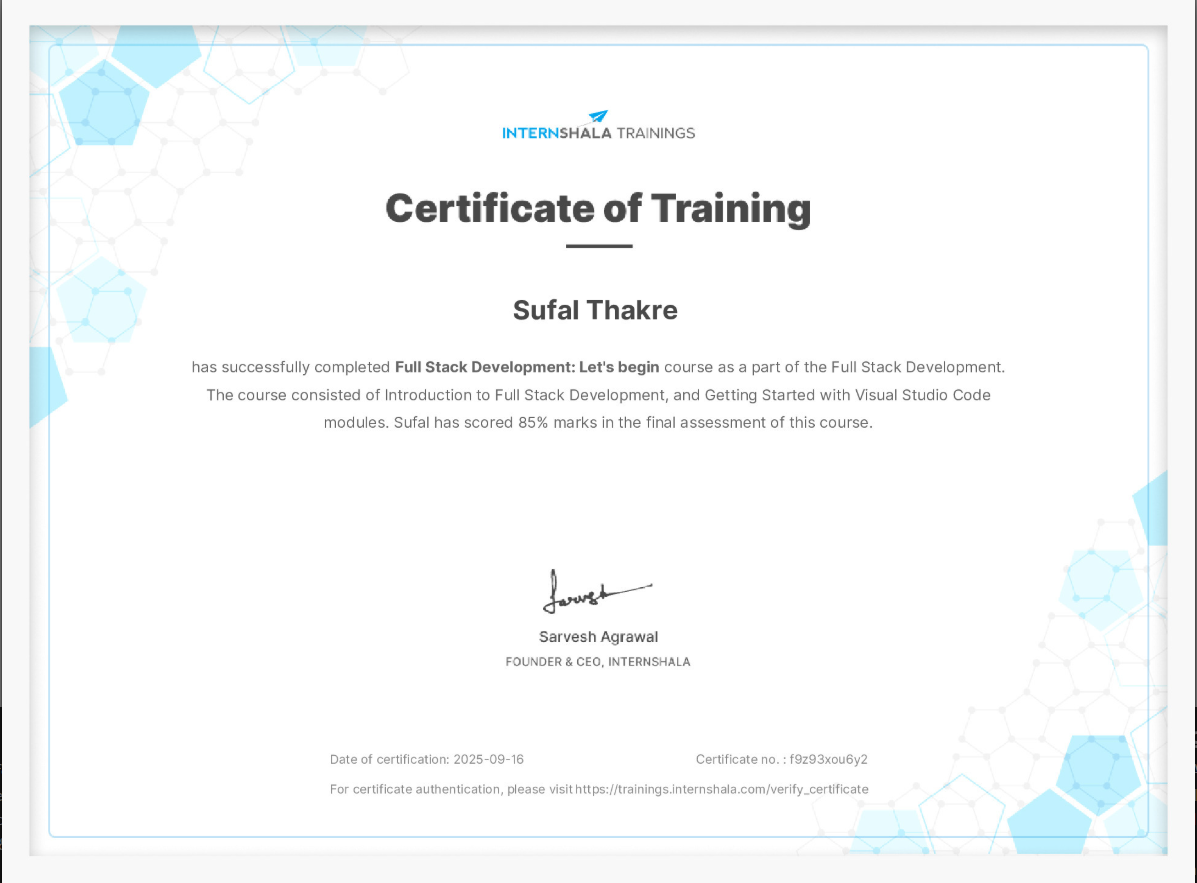
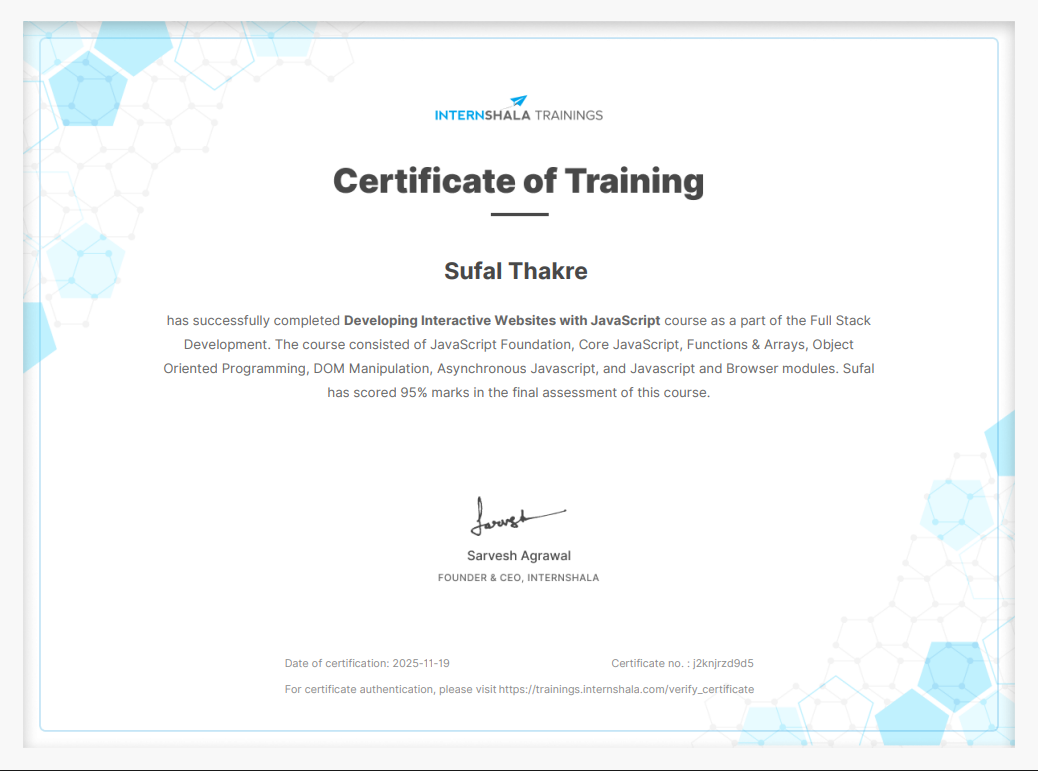
add cerificate of internshala

diff --git a/index.html b/index.html
@@ -33,7 +33,7 @@
                             class="text-gray-800 hover:text-red-800 transition duration-300 font-medium">Skills</a>
                     </li>
                     <li><a href="#projects"
-                            class="text-gray-800 hover:text-red-800 transition duration-300 font-medium">Services</a>
+                            class="text-gray-800 hover:text-red-800 transition duration-300 font-medium">Projects</a>
                     </li>
                     <li><a href="#contact"
                             class="text-gray-800 hover:text-red-800 transition duration-300 font-medium">Contact</a>
@@ -249,12 +249,12 @@
                                     </div>
                                 </div>
                             </div>
-                            <div class="text-sm font-medium text-red-800 skill-percentage">75%</div>
+                            <div class="text-sm font-medium text-red-800 skill-percentage">85%</div>
                         </div>
 
                         <div class="skill-bar bg-gray-200 rounded-full h-2.5 overflow-hidden">
                             <div
-                                class="skill-fill h-full bg-red-700 rounded-full w-[75%] origin-left transform lg:scale-x-0 transition-transform duration-1000 scale-x-100 lg:group-hover:scale-x-100">
+                                class="skill-fill h-full bg-red-700 rounded-full w-[85%] origin-left transform lg:scale-x-0 transition-transform duration-1000 scale-x-100 lg:group-hover:scale-x-100">
                             </div>
                         </div>
 
@@ -419,11 +419,13 @@
                         </div>
 
                         <div class="mt-4 flex flex-wrap gap-2">
-                            <span class="text-xs px-2 py-1 bg-gray-200 rounded-full text-gray-600 skill-tag">Responsive & Media queries
+                            <span class="text-xs px-2 py-1 bg-gray-200 rounded-full text-gray-600 skill-tag">Responsive
+                                & Media queries
                                 Design</span>
                             <span class="text-xs px-2 py-1 bg-gray-200 rounded-full text-gray-600 skill-tag">Layouts
                                 Layouts</span>
-                            <span class="text-xs px-2 py-1 bg-gray-200 rounded-full text-gray-600 skill-tag">Structure & Styling
+                            <span class="text-xs px-2 py-1 bg-gray-200 rounded-full text-gray-600 skill-tag">Structure &
+                                Styling
                                 Ecosystem</span>
                         </div>
                     </div>
@@ -546,8 +548,7 @@
                                     alt="internshala Logo" class="w-10 h-10 flex-shrink-0 rounded-xl" />
                                 <div>
                                     <h3 class="text-2xl font-bold font-poppins text-gray-800 cert-title-color">
-                                        Full Stack Development:
-                                        Let's Begin
+                                        Developing Interactive Websites with JavaScript
                                     </h3>
                                     <p class="text-sm text-gray-500 cert-subtitle-color">
                                         **Internshala**| 2025
@@ -564,11 +565,12 @@
 
                         <p
                             class="text-base text-gray-700 leading-relaxed cert-details-color mb-6 border-t pt-4 border-gray-200">
-                            I have successfully completed Full Stack Development: Let's begin course from Internshala
-                            Trainings. Check out my certificate here! Internshala Trainings.
-                        </p>
+                            I have successfully completed the <strong>Developing Interactive Websites with
+                                JavaScript</strong> course from Internshala Trainings.
+                            This training helped me strengthen my understanding of DOM manipulation, events, and
+                            building interactive UI components.</p>
 
-                        <a href="https://trainings.internshala.com/s/v/3781302/88ced7ff" target="_blank"
+                        <a href="https://trainings.internshala.com/s/v/3812788/9924f5f6" target="_blank"
                             rel="noopener noreferrer"
                             class="cert-btn relative overflow-hidden inline-flex items-center justify-center px-8 py-3 text-sm font-semibold rounded-full bg-red-700 text-white transition-all duration-500 transform hover:bg-red-900 hover:scale-[1.03] shadow-md">
 
@@ -631,7 +633,7 @@
                                     alt="Internshala Logo" class="w-10 h-10 flex-shrink-0 rounded-xl" />
                                 <div>
                                     <h3 class="text-2xl font-bold font-poppins text-gray-800 cert-title-color">
-                                       Git and GitHub: Mastering Version Control
+                                        Git and GitHub: Mastering Version Control
                                     </h3>
                                     <p class="text-sm text-gray-500 cert-subtitle-color">
                                         Issued by **Internshala** | 2025
@@ -649,8 +651,8 @@
                             developing hands-on skills in branching, merging, pull requests, and collaborative
                             workflows.</p>
 
-                        <a href="https://trainings.internshala.com/view_certificate/5l215xvex3b/3p4rrmzmoua/" target="_blank"
-                            rel="noopener noreferrer"
+                        <a href="https://trainings.internshala.com/view_certificate/5l215xvex3b/3p4rrmzmoua/"
+                            target="_blank" rel="noopener noreferrer"
                             class="cert-btn relative overflow-hidden inline-flex items-center justify-center px-8 py-3 text-sm font-semibold rounded-full bg-red-700 text-white transition-all duration-500 transform hover:bg-red-900 hover:scale-[1.03] shadow-md">
 
                             <span class="relative z-10 inline-flex items-center">
@@ -659,49 +661,7 @@
                             </span>
                         </a>
                     </div>
-                    <!--4th Cert-->
-                    <div
-                        class="cert-block bg-white p-8 rounded-xl shadow-2xl transition-all duration-500 hover:shadow-red-300/50 group border-l-8 border-b-8 border-red-800">
-                        <div class="flex flex-col md:flex-row justify-between items-start md:items-center mb-4">
-
-                            <div class="flex items-center space-x-4 mb-4 md:mb-0">
-                                <img src="src/assets/courseersIcon.png" alt="Coursera Logo"
-                                    class="w-10 h-10 flex-shrink-0 rounded-xl" />
-                                <div>
-                                    <h3 class="text-2xl font-bold font-poppins text-gray-800 cert-title-color">
-                                        Google Ads for Beginners
-                                    </h3>
-                                    <p class="text-sm text-gray-500 cert-subtitle-color">
-                                        Issued by **Coursera** | 2025
-                                    </p>
-                                </div>
-                            </div>
-
-                            <div class="w-24 h-16 overflow-hidden rounded-lg shadow-lg flex-shrink-0">
-                                <img src="src/assets/CourseraCert.png" alt="Certificate Thumbnail"
-                                    class="w-full h-full object-cover">
-                            </div>
-                        </div>
-
-                        <p
-                            class="text-base text-gray-700 leading-relaxed cert-details-color mb-6 border-t pt-4 border-gray-200">
-                            Completed Google Ads for Beginners (Coursera) with 100% grade. Learned campaign setup,
-                            keyword research, audience targeting, and ad optimization. Gained skills in PPC, ROI, and
-                            digital marketing.
-
-                        </p>
-                        <!-- rel="noopener noreferrer" is used  for security and performance-->
-                        <a href="https://coursera.org/share/5f9df123de991b9bf488e761cebe72c7" target="_blank"
-                            rel="noopener noreferrer"
-                            class="cert-btn relative overflow-hidden inline-flex items-center justify-center px-8 py-3 text-sm font-semibold rounded-full bg-red-700 text-white transition-all duration-500 transform hover:bg-red-900 hover:scale-[1.03] shadow-md">
-
-                            <span class="relative z-10 inline-flex items-center">
-                                <i class="fas fa-external-link-alt mr-2"></i>
-                                View Credential
-                            </span>
-                        </a>
-                    </div>
-                    <!--5th cert-->
+                    <!--4th cert-->
                     <div
                         class="cert-block bg-white p-8 rounded-xl shadow-2xl transition-all duration-500 hover:shadow-red-300/50 group border-l-8 border-b-8 border-red-800">
                         <div class="flex flex-col md:flex-row justify-between items-start md:items-center mb-4">
@@ -764,53 +724,146 @@
                 <div class="grid grid-cols-1 md:grid-cols-2 lg:grid-cols-3 gap-8 relative">
 
                     <!-- Project Card 1 -->
+
                     <div
                         class="project-card bg-white rounded-3xl overflow-hidden shadow-xl transition-all duration-500 hover:shadow-2xl group">
-                        <div
-                            class="relative w-full h-64 overflow-hidden bg-gradient-to-br from-purple-500 to-purple-700">
-                            <img src="https://images.unsplash.com/photo-1460925895917-afdab827c52f?w=800&h=600&fit=crop"
-                                alt="E-Commerce Platform"
+                        <div class="relative w-full h-64 overflow-hidden ">
+                            <img src="https://images.unsplash.com/photo-1551650975-87deedd944c3?w=800&h=600&fit=crop"
+                                alt="Portfolio Website"
                                 class="w-full h-full object-cover transition-transform duration-700 group-hover:scale-110 group-hover:rotate-2">
 
-                            <!-- Overlay -->
                             <div
-                                class="absolute inset-0 bg-gradient-to-br  to-slate-600  transition-opacity duration-500 flex items-center justify-center">
+                                class="absolute inset-0 bg-gradient-to-br to-slate-600  transition-colors duration-500 flex items-center justify-center">
                                 <div
                                     class="flex gap-5 transform translate-y-5 group-hover:translate-y-0 transition-transform duration-500">
-                                    <a href="https://github.com/Sufalthakre18/E-commerce.git" target="_blank"
+                                    <a href="https://my-portfolio-pearl-xi-96.vercel.app/" target="_blank"
                                         class="w-12 h-12 bg-white rounded-full flex items-center justify-center text-red-700 text-xl transition-all duration-300 hover:scale-125 hover:rotate-[360deg]">
                                         <i class="fas fa-external-link-alt"></i>
                                     </a>
-                                    <a href="https://github.com/Sufalthakre18/E-commerce.git" target="_blank"
+                                    <a href="https://github.com/Sufalthakre18/My-portfolio" target="_blank"
                                         class="w-12 h-12 bg-white rounded-full flex items-center justify-center text-red-700 text-xl transition-all duration-300 hover:scale-125 hover:rotate-[360deg]">
                                         <i class="fab fa-github"></i>
                                     </a>
                                 </div>
                             </div>
-
                             <!-- Badge -->
                             <div
                                 class="project-badge absolute top-4 right-4 bg-slate-800 text-white px-4 py-1.5 rounded-full text-xs font-semibold uppercase tracking-wider">
-                                Running
+                                Live
                             </div>
                         </div>
 
                         <div class="p-6">
                             <h3
                                 class="text-2xl font-bold text-gray-800 mb-3 transition-colors duration-300 group-hover:text-red-700">
-                                E-Commerce Platform
+                                My Portfolio Website
                             </h3>
                             <p class="text-sm text-gray-600 mb-4 line-clamp-3 leading-relaxed">
-                                Full-stack marketplace with real-time inventory, payment integration, and admin
-                                dashboard. **PERN stack**
+                                Stunning portfolio website with parallax effects and smooth animations using tailwind
+                                css and JavaScript.
                             </p>
                             <div class="flex flex-wrap gap-2">
                                 <span
-                                    class="project-tag px-3 py-1.5  text-red-900 rounded-full text-xs font-medium transition-all duration-300">Next.js</span>
+                                    class="project-tag px-3 py-1.5  text-red-900 rounded-full text-xs font-medium transition-all duration-300">HTML5</span>
                                 <span
-                                    class="project-tag px-3 py-1.5  text-red-900 rounded-full text-xs font-medium transition-all duration-300">Node.js</span>
+                                    class="project-tag px-3 py-1.5  text-red-900 rounded-full text-xs font-medium transition-all duration-300">Animation</span>
                                 <span
-                                    class="project-tag px-3 py-1.5  text-red-900 rounded-full text-xs font-medium transition-all duration-300">PostgreSQL</span>
+                                    class="project-tag px-3 py-1.5  text-red-900 rounded-full text-xs font-medium transition-all duration-300">TailwindCss</span>
+                            </div>
+                        </div>
+                    </div>
+
+                    <!--Project Card 1.1-->
+                    <div
+                        class="project-card bg-white rounded-3xl overflow-hidden shadow-xl transition-all duration-500 hover:shadow-2xl group">
+                        <div class="relative w-full h-64 overflow-hidden ">
+                            <img src="./src/assets/studentRegistration.gif"
+                                alt="Student Registration System Project Preview"
+                                class="w-full h-full object-cover transition-transform duration-700 group-hover:scale-110 group-hover:rotate-2">
+
+                            <div
+                                class="absolute inset-0 bg-gradient-to-br to-slate-600  transition-colors duration-500 flex items-center justify-center">
+                                <div
+                                    class="flex gap-5 transform translate-y-5 group-hover:translate-y-0 transition-transform duration-500">
+                                    <a href="https://student-registration-system-one-sandy.vercel.app/" target="_blank"
+                                        class="w-12 h-12 bg-white rounded-full flex items-center justify-center text-red-700 text-xl transition-all duration-300 hover:scale-125 hover:rotate-[360deg]">
+                                        <i class="fas fa-external-link-alt"></i>
+                                    </a>
+                                    <a href="https://github.com/Sufalthakre18/Student-Registration-System" target="_blank"
+                                        class="w-12 h-12 bg-white rounded-full flex items-center justify-center text-red-700 text-xl transition-all duration-300 hover:scale-125 hover:rotate-[360deg]">
+                                        <i class="fab fa-github"></i>
+                                    </a>
+                                </div>
+                            </div>
+                            <!-- Badge -->
+                            <div
+                                class="project-badge absolute top-4 right-4 bg-slate-800 text-white px-4 py-1.5 rounded-full text-xs font-semibold uppercase tracking-wider">
+                                Live
+                            </div>
+                        </div>
+
+                        <div class="p-6">
+                            <h3
+                                class="text-2xl font-bold text-gray-800 mb-3 transition-colors duration-300 group-hover:text-red-700">
+                                  Student Registration System
+                            </h3>
+                            <p class="text-sm text-gray-600 mb-4 line-clamp-3 leading-relaxed">
+                                 A responsive Student Registration System with full CRUD, smart validation, duplicate ID checks, and persistent data using localStorage.
+                            </p>
+                            <div class="flex flex-wrap gap-2">
+                                <span
+                                    class="project-tag px-3 py-1.5  text-red-900 rounded-full text-xs font-medium transition-all duration-300">JavaScript</span>
+                                <span
+                                    class="project-tag px-3 py-1.5  text-red-900 rounded-full text-xs font-medium transition-all duration-300">CRUD</span>
+                                <span
+                                    class="project-tag px-3 py-1.5  text-red-900 rounded-full text-xs font-medium transition-all duration-300">TailwindCss</span>
+                            </div>
+                        </div>
+                    </div>
+
+                    <!--Project Card 1.2-->
+                    <div
+                        class="project-card bg-white rounded-3xl overflow-hidden shadow-xl transition-all duration-500 hover:shadow-2xl group">
+                        <div class="relative w-full h-64 overflow-hidden ">
+                            <img src="./src/assets/weatherforecast.gif"
+                                alt="Weather Forecast Application"
+                                class="w-full h-full object-cover transition-transform duration-700 group-hover:scale-110 group-hover:rotate-2">
+
+                            <div
+                                class="absolute inset-0 bg-gradient-to-br to-slate-600  transition-colors duration-500 flex items-center justify-center">
+                                <div
+                                    class="flex gap-5 transform translate-y-5 group-hover:translate-y-0 transition-transform duration-500">
+                                    <a href="https://weather-forecast-application-lyart.vercel.app/" target="_blank"
+                                        class="w-12 h-12 bg-white rounded-full flex items-center justify-center text-red-700 text-xl transition-all duration-300 hover:scale-125 hover:rotate-[360deg]">
+                                        <i class="fas fa-external-link-alt"></i>
+                                    </a>
+                                    <a href="https://github.com/Sufalthakre18/weather-forecast-application" target="_blank"
+                                        class="w-12 h-12 bg-white rounded-full flex items-center justify-center text-red-700 text-xl transition-all duration-300 hover:scale-125 hover:rotate-[360deg]">
+                                        <i class="fab fa-github"></i>
+                                    </a>
+                                </div>
+                            </div>
+                            <!-- Badge -->
+                            <div
+                                class="project-badge absolute top-4 right-4 bg-slate-800 text-white px-4 py-1.5 rounded-full text-xs font-semibold uppercase tracking-wider">
+                                Live
+                            </div>
+                        </div>
+
+                        <div class="p-6">
+                            <h3
+                                class="text-2xl font-bold text-gray-800 mb-3 transition-colors duration-300 group-hover:text-red-700">
+                                  Weather Forecast Application
+                            </h3>
+                            <p class="text-sm text-gray-600 mb-4 line-clamp-3 leading-relaxed">
+                                 A sleek weather forecast app using Open-Meteo APIs with search, geolocation, 5-day forecast, temperature toggle, animated UI, and smart localStorage-based recent searches. </p>
+                            <div class="flex flex-wrap gap-2">
+                                <span
+                                    class="project-tag px-3 py-1.5  text-red-900 rounded-full text-xs font-medium transition-all duration-300">JavaScript</span>
+                                <span
+                                    class="project-tag px-3 py-1.5  text-red-900 rounded-full text-xs font-medium transition-all duration-300">Open-Meteo APIs</span>
+                                <span
+                                    class="project-tag px-3 py-1.5  text-red-900 rounded-full text-xs font-medium transition-all duration-300">TailwindCss</span>
                             </div>
                         </div>
                     </div>
@@ -1062,47 +1115,54 @@
                     <!-- Project Card 7 -->
                     <div
                         class="project-card bg-white rounded-3xl overflow-hidden shadow-xl transition-all duration-500 hover:shadow-2xl group">
-                        <div class="relative w-full h-64 overflow-hidden ">
-                            <img src="https://images.unsplash.com/photo-1551650975-87deedd944c3?w=800&h=600&fit=crop"
-                                alt="Portfolio Website"
+                        <div
+                            class="relative w-full h-64 overflow-hidden bg-gradient-to-br from-purple-500 to-purple-700">
+                            <img src="https://images.unsplash.com/photo-1460925895917-afdab827c52f?w=800&h=600&fit=crop"
+                                alt="E-Commerce Platform"
                                 class="w-full h-full object-cover transition-transform duration-700 group-hover:scale-110 group-hover:rotate-2">
 
+                            <!-- Overlay -->
                             <div
-                                class="absolute inset-0 bg-gradient-to-br to-slate-600  transition-colors duration-500 flex items-center justify-center">
+                                class="absolute inset-0 bg-gradient-to-br  to-slate-600  transition-opacity duration-500 flex items-center justify-center">
                                 <div
                                     class="flex gap-5 transform translate-y-5 group-hover:translate-y-0 transition-transform duration-500">
-                                    <a href="https://github.com/Sufalthakre18/portfolio.git" target="_blank"
+                                    <a href="https://github.com/Sufalthakre18/E-commerce.git" target="_blank"
                                         class="w-12 h-12 bg-white rounded-full flex items-center justify-center text-red-700 text-xl transition-all duration-300 hover:scale-125 hover:rotate-[360deg]">
                                         <i class="fas fa-external-link-alt"></i>
                                     </a>
-                                    <a href="https://github.com/Sufalthakre18/portfolio.git" target="_blank"
+                                    <a href="https://github.com/Sufalthakre18/E-commerce.git" target="_blank"
                                         class="w-12 h-12 bg-white rounded-full flex items-center justify-center text-red-700 text-xl transition-all duration-300 hover:scale-125 hover:rotate-[360deg]">
                                         <i class="fab fa-github"></i>
                                     </a>
                                 </div>
+                            </div>
+
+                            <!-- Badge -->
+                            <div
+                                class="project-badge absolute top-4 right-4 bg-slate-800 text-white px-4 py-1.5 rounded-full text-xs font-semibold uppercase tracking-wider">
+                                Running
                             </div>
                         </div>
 
                         <div class="p-6">
                             <h3
                                 class="text-2xl font-bold text-gray-800 mb-3 transition-colors duration-300 group-hover:text-red-700">
-                                My Portfolio Website
+                                E-Commerce Platform
                             </h3>
                             <p class="text-sm text-gray-600 mb-4 line-clamp-3 leading-relaxed">
-                                Stunning portfolio website with parallax effects and smooth animations using tailwind
-                                css and JavaScript.
+                                Full-stack marketplace with real-time inventory, payment integration, and admin
+                                dashboard. **PERN stack**
                             </p>
                             <div class="flex flex-wrap gap-2">
                                 <span
-                                    class="project-tag px-3 py-1.5  text-red-900 rounded-full text-xs font-medium transition-all duration-300">HTML5</span>
+                                    class="project-tag px-3 py-1.5  text-red-900 rounded-full text-xs font-medium transition-all duration-300">Next.js</span>
                                 <span
-                                    class="project-tag px-3 py-1.5  text-red-900 rounded-full text-xs font-medium transition-all duration-300">Animation</span>
+                                    class="project-tag px-3 py-1.5  text-red-900 rounded-full text-xs font-medium transition-all duration-300">Node.js</span>
                                 <span
-                                    class="project-tag px-3 py-1.5  text-red-900 rounded-full text-xs font-medium transition-all duration-300">TailwindCss</span>
+                                    class="project-tag px-3 py-1.5  text-red-900 rounded-full text-xs font-medium transition-all duration-300">PostgreSQL</span>
                             </div>
                         </div>
                     </div>
-
                 </div>
             </div>
 
